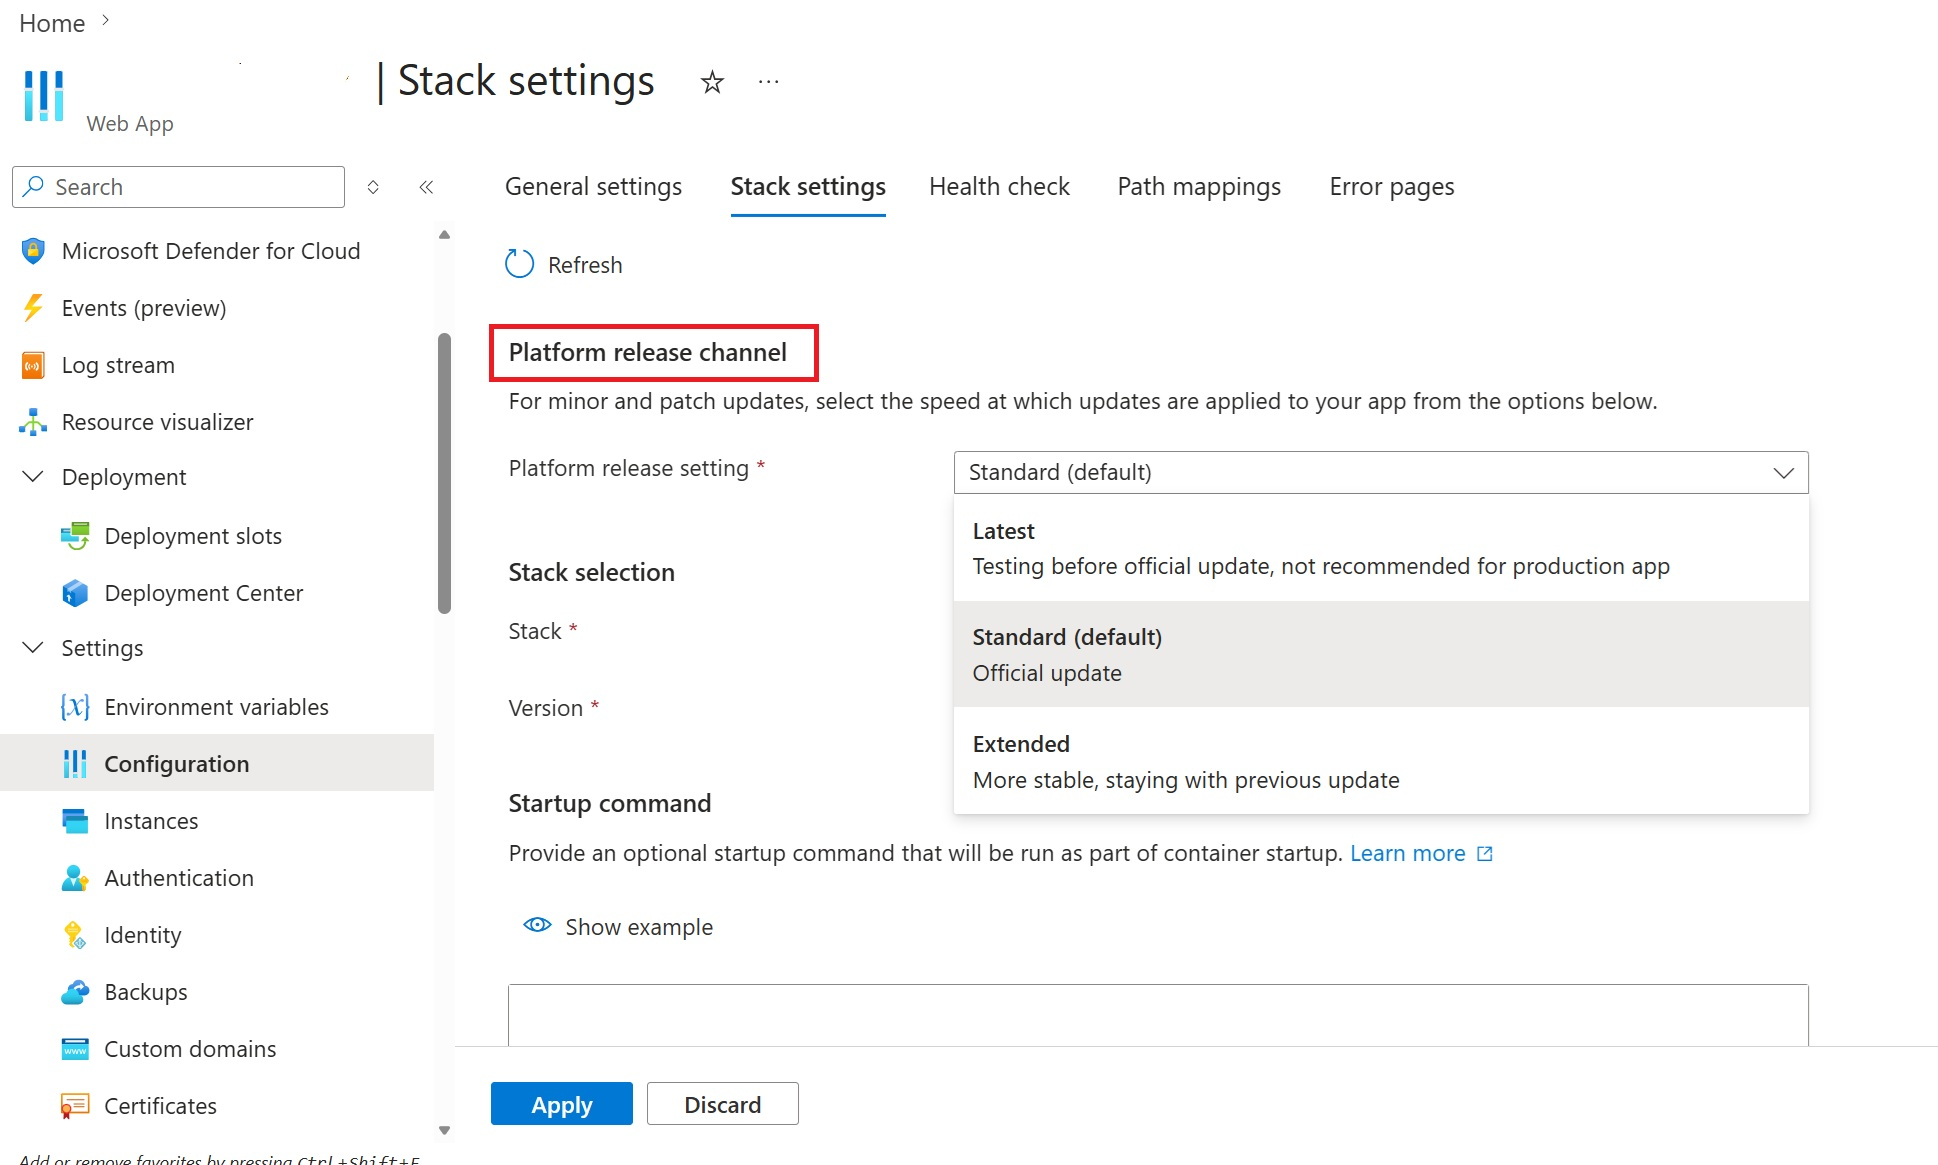
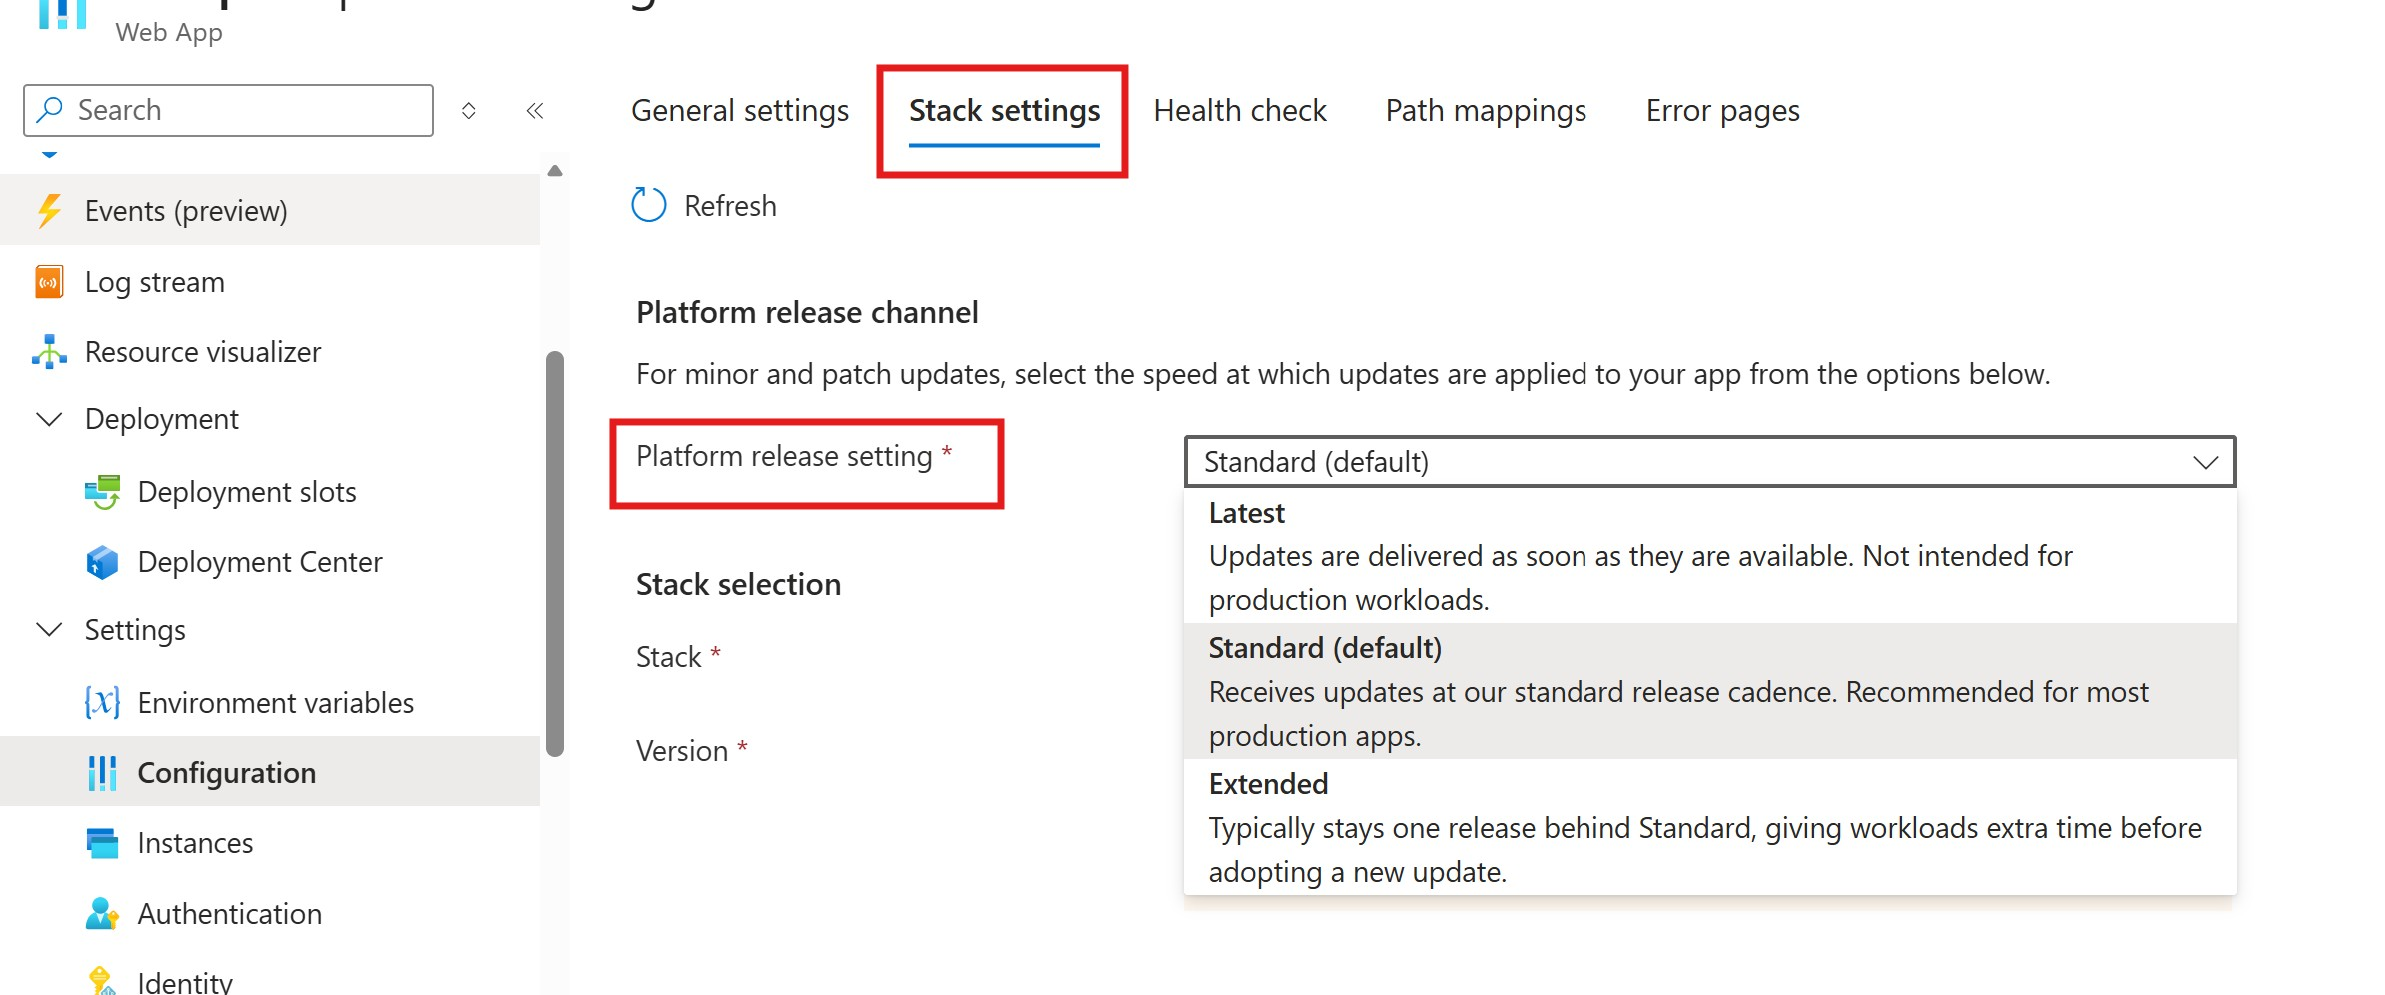
Updated screenshot and made the changes suggested by Byron

diff --git a/_posts/2026-05-06-platform-release-channel.md b/_posts/2026-05-06-platform-release-channel.md
@@ -25,9 +25,9 @@ The setting supports three values:
 
 | Channel      | Behavior                                                                   | Recommended for                                                                   |
 | ------------ | -------------------------------------------------------------------------- | --------------------------------------------------------------------------------- |
-| **Latest**   | Uses the latest patch versions rolled out on App Service                   | Apps where staying current with security and platform updates is the top priority |
-| **Standard** | Default setting. Runs one App Service patch rollout behind Latest          | Most production apps that want a balance of stability and currency                |
-| **Extended** | Runs further behind Latest, giving more time before adopting newer patches | Apps that need additional validation time before moving to newer patches          |
+| **Latest**   | Updates are delivered as soon as they are available                   | Not intended for production workloads |
+| **Standard** | Default setting. Recieves updates at our standard release cadence          | Recommended for most production apps                |
+| **Extended** | Typically stays one release behind standard | Apps that need extra time before adopting newer patches          |
 
 By default, apps are set to **Standard**. This gives you additional time to test the latest patch before your app moves to it.
 
@@ -35,9 +35,7 @@ Choose **Latest** when security and immediate access to the newest runtime patch
 
 ## How channels move forward
 
-The release channels move forward with each runtime patch rollout.
-
-When a new patch is rolled out to **Latest**, the **Standard** channel moves to the patch version that was previously on **Latest**. **Extended** stays further behind to provide more validation time.
+When a new runtime patch is available, App Service first rolls it out through the **Latest** channel using a faster release cadence. The same patch then continues through the normal rollout process and becomes available in the **Standard** channel after it has progressed further through validation and rollout. **Extended** remains further behind Standard to provide additional validation time for apps that need it.
 
 For example, with the current .NET 10 rollout, the channels look like this:
 
@@ -45,9 +43,10 @@ For example, with the current .NET 10 rollout, the channels look like this:
 | ---------- | --------------: | -----: | -------: | -------: |
 | DOTNETCORE |              10 | 10.0.7 |   10.0.4 |   10.0.2 |
 
-When the next .NET 10 patch rollout happens, **Standard** will move to **10.0.7**, while **Latest** will move to the newly rolled-out patch version.
 
-For some stacks, you may currently see the same patch version for both **Standard** and **Extended**. We are working through another rollout for these stacks, and the channel versions will be updated as that rollout progresses.
+As the .NET 10 rollout progresses, the **10.0.7** patch will first be available through the **Latest** channel, then move to **Standard** through the normal rollout cadence. 
+
+For some stacks, **Standard** and **Extended** may currently show the same patch version. This is expected while the release channels are still moving through their rollout cadence. As additional rollout waves progress, the channel versions will separate and reflect the intended behavior for each channel.
 
 ## Configure Platform Release Channel
 